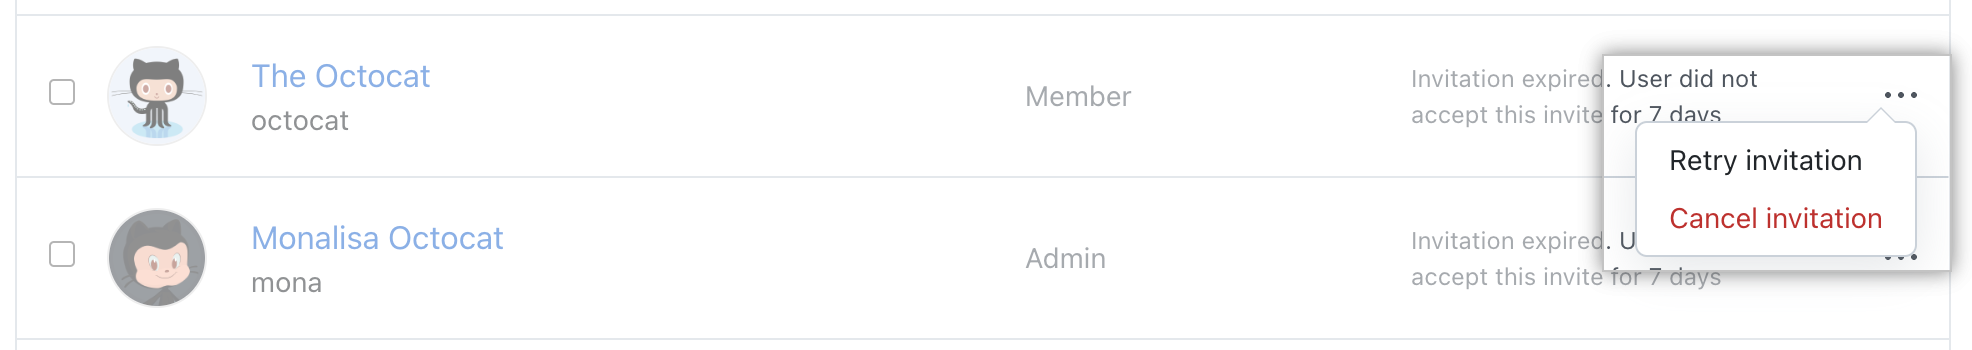
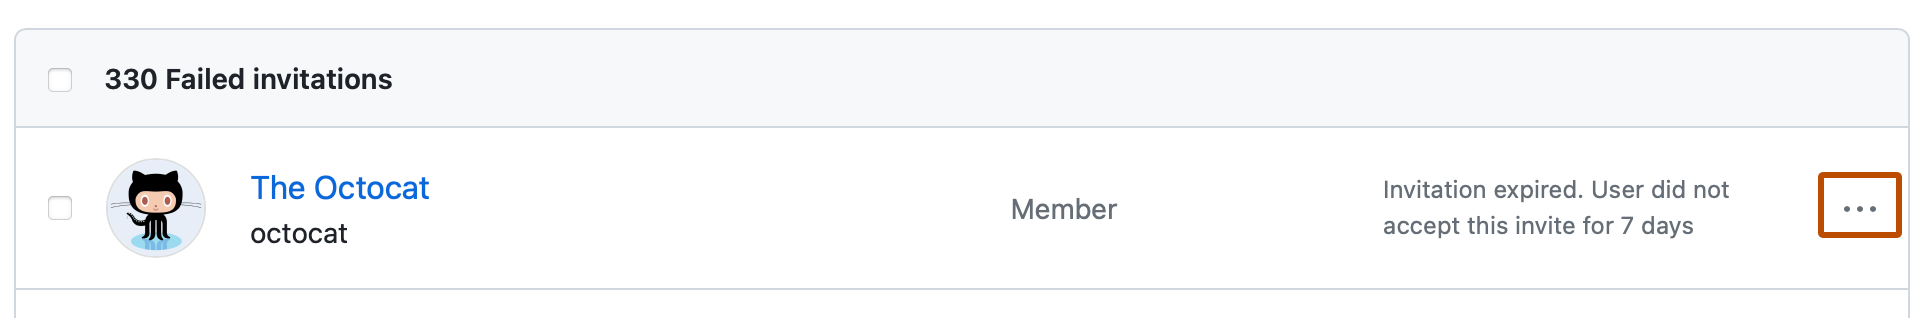
Make images accessible in the `images/help/organizations` directory (3/4) (#36113)

diff --git a/content/organizations/managing-peoples-access-to-your-organization-with-roles/about-custom-repository-roles.md b/content/organizations/managing-peoples-access-to-your-organization-with-roles/about-custom-repository-roles.md
@@ -17,7 +17,7 @@ To perform any actions on {% data variables.product.product_name %}, such as cre
 
 Within an organization, you can assign roles at the organization, team, and repository level. For more information about the different levels of roles, see "[AUTOTITLE](/organizations/managing-peoples-access-to-your-organization-with-roles/roles-in-an-organization)."
 
-You can have more granular control over the permissions you grant at the repository level by creating up to {% ifversion authz-increased-custom-repo-roles %}five {% else %}three {% endif %} custom repository roles. {% data reusables.organizations.about-custom-repo-roles %} For more information, see "[AUTOTITLE](/organizations/managing-peoples-access-to-your-organization-with-roles/managing-custom-repository-roles-for-an-organization).
+You can have more granular control over the permissions you grant at the repository level by creating up to {% ifversion authz-increased-custom-repo-roles %}five {% else %}three {% endif %} custom repository roles. {% data reusables.organizations.about-custom-repo-roles %} For more information, see "[AUTOTITLE](/organizations/managing-peoples-access-to-your-organization-with-roles/managing-custom-repository-roles-for-an-organization)."
 
 After you create a custom role, anyone with admin access to a repository can assign the role to an individual or team. For more information, see "[AUTOTITLE](/organizations/managing-user-access-to-your-organizations-repositories/managing-an-individuals-access-to-an-organization-repository)" and "[AUTOTITLE](/organizations/managing-user-access-to-your-organizations-repositories/managing-team-access-to-an-organization-repository)."
 
@@ -65,18 +65,18 @@ You can only choose an additional permission if it's not already included in the
 
 - Create a discussion category
 - Edit a discussion category
-- Delete a discussion category 
-- Mark or unmark discussion answers 
-- Hide or unhide discussion comments 
-- Convert issues to discussions 
+- Delete a discussion category
+- Mark or unmark discussion answers
+- Hide or unhide discussion comments
+- Convert issues to discussions
 
 For more information, see "[AUTOTITLE](/discussions)."
 {% endif %}
 
 ### Issue and Pull Requests
 
-- Assign or remove a user 
-- Add or remove a label 
+- Assign or remove a user
+- Add or remove a label
 
 ### Issue
 
@@ -94,17 +94,17 @@ For more information, see "[AUTOTITLE](/discussions)."
 ### Repository
 
 - Set milestones
-- Manage wiki settings 
+- Manage wiki settings
 - Manage project settings
-- Manage pull request merging settings 
+- Manage pull request merging settings
 - Manage {% data variables.product.prodname_pages %} settings (see "[AUTOTITLE](/pages/getting-started-with-github-pages/configuring-a-publishing-source-for-your-github-pages-site)")
-- Manage webhooks 
-- Manage deploy keys 
+- Manage webhooks
+- Manage deploy keys
 - Edit repository metadata
 {%- ifversion ghec %}
 - Set interaction limits
 {%- endif %}
-- Set the social preview 
+- Set the social preview
 - Push commits to protected branches (branch protection rules will still apply)
 - Create protected tags
 - Delete protected tags
@@ -117,13 +117,13 @@ For more information, see "[AUTOTITLE](/discussions)."
 
 ### Security
 
-- View {% data variables.product.prodname_code_scanning %} results 
+- View {% data variables.product.prodname_code_scanning %} results
 - Dismiss or reopen {% data variables.product.prodname_code_scanning %} results
-- Delete {% data variables.product.prodname_code_scanning %} results 
-- View {% data variables.product.prodname_dependabot_alerts %} 
-- Dismiss or reopen {% data variables.product.prodname_dependabot_alerts %} 
-- View {% data variables.product.prodname_secret_scanning %} results 
-- Dismiss or reopen {% data variables.product.prodname_secret_scanning %} results 
+- Delete {% data variables.product.prodname_code_scanning %} results
+- View {% data variables.product.prodname_dependabot_alerts %}
+- Dismiss or reopen {% data variables.product.prodname_dependabot_alerts %}
+- View {% data variables.product.prodname_secret_scanning %} results
+- Dismiss or reopen {% data variables.product.prodname_secret_scanning %} results
 
 ## Precedence for different levels of access
 

diff --git a/content/account-and-profile/setting-up-and-managing-your-personal-account-on-github/managing-your-personal-account/converting-a-user-into-an-organization.md b/content/account-and-profile/setting-up-and-managing-your-personal-account-on-github/managing-your-personal-account/converting-a-user-into-an-organization.md
@@ -48,27 +48,22 @@ You can also convert your personal account directly into an organization. Conver
  - Automatically invites collaborators to teams with permissions equivalent to what they had before
  {% ifversion fpt or ghec %}- For personal accounts on {% data variables.product.prodname_pro %}, automatically transitions billing to [the paid {% data variables.product.prodname_team %}](/billing/managing-billing-for-your-github-account/about-billing-for-github-accounts) without the need to re-enter payment information, adjust your billing cycle, or double pay at any time{% endif %}
 
+When you convert a personal account into an organization, we'll add collaborators on repositories that belong to the account to the new organization as outside collaborators. You can then invite outside collaborators to become members of your new organization if you wish. For more information, see "[AUTOTITLE](/organizations/managing-peoples-access-to-your-organization-with-roles/roles-in-an-organization#outside-collaborators)."
+
 1. Create a new personal account, which you'll use to sign into GitHub and access the organization and your repositories after you convert.
 2.  [Leave any organizations](/account-and-profile/setting-up-and-managing-your-personal-account-on-github/managing-your-membership-in-organizations/removing-yourself-from-an-organization) the personal account you're converting has joined.
 {% data reusables.user-settings.access_settings %}
 {% data reusables.user-settings.organizations %}
-5. Under "Transform account", click **Turn <username> into an organization**.
- 	![Organization conversion button](/assets/images/help/settings/convert-to-organization.png)
-6. In the Account Transformation Warning dialog box, review and confirm the conversion. Note that the information in this box is the same as the warning at the top of this article.
- 	![Conversion warning](/assets/images/help/organizations/organization-account-transformation-warning.png)
-7. On the "Transform your user into an organization" page, under "Choose an organization owner", choose either the secondary personal account you created in the previous section or another user you trust to manage the organization.
- 	![Add organization owner page](/assets/images/help/organizations/organization-add-owner.png)
-8. Choose your new organization's subscription and enter your billing information if prompted.
-9. Click **Create Organization**.
-10. Sign in to the new personal account you created in step one, then use the context switcher to access your new organization.
-
-{% tip %}
-
-**Tip**: When you convert a personal account into an organization, we'll add collaborators on repositories that belong to the account to the new organization as *outside collaborators*. You can then invite *outside collaborators* to become members of your new organization if you wish. For more information, see "[AUTOTITLE](/organizations/managing-peoples-access-to-your-organization-with-roles/roles-in-an-organization#outside-collaborators)."
-
-{% endtip %}
+1. In the "Transform account" section, click **Turn USERNAME into an organization**.
+1. Review the warning, then click **Turn USERNAME into an organization**.
+1. Under "Choose an organization owner", type either the secondary personal account you created in the previous section, or another user you trust, to manage the organization.
+1. Choose your new organization's subscription and enter your billing information, if prompted.
+1. Click **Create Organization**.
+1. Sign in to the new personal account you created earlier, then use the context switcher to access your new organization.
 
 ## Further reading
 - "[AUTOTITLE](/organizations/organizing-members-into-teams)"
-{% ifversion fpt or ghec %}- "[AUTOTITLE](/organizations/managing-membership-in-your-organization/inviting-users-to-join-your-organization)"{% endif %}
+{% ifversion fpt or ghec %}
+- "[AUTOTITLE](/organizations/managing-membership-in-your-organization/inviting-users-to-join-your-organization)"
+{% endif %}
 - "[AUTOTITLE](/account-and-profile/setting-up-and-managing-your-personal-account-on-github/managing-your-membership-in-organizations/accessing-an-organization)"

diff --git a/content/organizations/managing-peoples-access-to-your-organization-with-roles/managing-custom-repository-roles-for-an-organization.md b/content/organizations/managing-peoples-access-to-your-organization-with-roles/managing-custom-repository-roles-for-an-organization.md
@@ -22,23 +22,15 @@ redirect_from:
 
 To create a new repository role, you add permissions to an inherited role and give the custom role a name.
 
-{% data reusables.profile.access_profile %}
 {% data reusables.profile.access_org %}
-{% data reusables.organizations.org_settings %}
 {% data reusables.organizations.org-list %}
 {% data reusables.organizations.org-settings-repository-roles %}
-5. Click **Create a Role**.
-  ![Screenshot of "Create a Role" button](/assets/images/help/organizations/repository-role-create-role.png)
-4. Under "Name", type the name of your repository role.
-  ![Field to type a name for the repository role](/assets/images/help/organizations/repository-role-name.png)
-5. Under "Description", type a description of your repository role.
-  ![Field to type a description for the repository role](/assets/images/help/organizations/repository-role-description.png)
-6. Under "Choose a role to inherit", select the role you want to inherit.
-  ![Selecting repository role base role option](/assets/images/help/organizations/repository-role-base-role-option.png)
-7. Under "Add Permissions", use the drop-down menu to select the permissions you want your custom role to include.
-  ![Selecting permission levels from repository role drop-down](/assets/images/help/organizations/repository-role-drop-down.png)
-7. Click **Create role**.
-  ![Confirm creating a repository role](/assets/images/help/organizations/repository-role-creation-confirm.png)
+1. Scroll to the "Custom roles" section, then click **Create a Role**.
+1. Under "Name", type the name of your repository role.
+1. Under "Description", type a description of your repository role.
+1. Under "Choose a role to inherit", select the role you want to inherit.
+1. Under "Add Permissions", select the dropdown menu and click the permissions you want your custom role to include.
+1. Click **Create role**.
 
 ## Editing a repository role
 
@@ -47,10 +39,10 @@ To create a new repository role, you add permissions to an inherited role and gi
 {% data reusables.organizations.org_settings %}
 {% data reusables.organizations.org-list %}
 {% data reusables.organizations.org-settings-repository-roles %}
-3. To the right of the role you want to edit, click {% octicon "kebab-horizontal" aria-label="The horizontal kebab icon" %}, then click **Edit**.
-  ![Edit option in drop-down menu for repository roles](/assets/images/help/organizations/repository-role-edit-setting.png)
-4. Edit, then click **Update role**.
-  ![Edit fields and update repository roles](/assets/images/help/organizations/repository-role-update.png)
+1. To the right of the role you want to edit, click {% octicon "kebab-horizontal" aria-label="Show custom role actions" %}, then click **Edit**.
+
+  ![Screenshot of the list of custom roles for an organization. To the right of a role, a kebab icon is outlined in dark orange.](/assets/images/help/organizations/repository-role-edit-setting.png)
+1. Edit, then click **Update role**.
 
 ## Deleting a repository role
 
@@ -61,7 +53,7 @@ If you delete an existing repository role, all pending invitations, teams, and u
 {% data reusables.organizations.org_settings %}
 {% data reusables.organizations.org-list %}
 {% data reusables.organizations.org-settings-repository-roles %}
-3. To the right of the role you want to delete, click {% octicon "kebab-horizontal" aria-label="The horizontal kebab icon" %}, then click **Delete**.
-  ![Edit option in drop-down menu for repository roles](/assets/images/help/organizations/repository-role-delete-setting.png)
-4. Review changes for the role you want to remove, then click **Delete role**.
-  ![Confirm deleting a repository role](/assets/images/help/organizations/repository-role-delete-confirm.png)
+1. To the right of the role you want to delete, click {% octicon "kebab-horizontal" aria-label="Show custom role actions" %}, then click **Delete**.
+
+   ![Screenshot of the list of custom roles for an organization. To the right of a role, a kebab icon is outlined in dark orange.](/assets/images/help/organizations/repository-role-edit-setting.png)
+1. Review changes for the role you want to remove, then click **Delete role**.

diff --git a/content/organizations/collaborating-with-groups-in-organizations/customizing-your-organizations-profile.md b/content/organizations/collaborating-with-groups-in-organizations/customizing-your-organizations-profile.md
@@ -16,15 +16,11 @@ shortTitle: Customize organization profile
 {% ifversion org-profile-pin-private %}
 You can customize your organization's Overview page to show a README and pinned repositories dedicated to public users or members of the organization.
 
-![Image of a public organization profile page](/assets/images/help/organizations/public_profile.png)
-
 Members of your organization who are signed into {% data variables.product.prodname_dotcom %}, can select a `member` or `public` view of the README and pinned repositories when they visit your organization's profile page.
 
-![Image of a public organization profile page view context switcher](/assets/images/help/organizations/profile_view_switcher_public.png)
+![Image of an organization's profile page. In the right sidebar, a dropdown menu, labeled "View as: Public", is outlined in dark orange.](/assets/images/help/organizations/profile_view_switcher_public.png)
 
 The view defaults to `member` if either a members-only README or members-only pinned repositories are present, and `public` otherwise.
-
-![Image of a members only organization profile page](/assets/images/help/organizations/member_only_profile.png)
 
 Users who are not members of your organization will be shown a `public` view.
 
@@ -49,21 +45,21 @@ You can format text and include emoji, images, and GIFs in your organization pro
 
 ## Adding a public organization profile README
 
-1. If your organization does not already have a public `.github` repository, create a public `.github` repository.
-2. In your organization's `.github` repository, create a `README.md` file in the `profile` folder.
-3. Commit the changes to the `README.md` file. The content of the `README.md` will appear on your organization's public profile.
+The content of public `README.md` will appear on your organization's public profile.
 
-   ![Image of an organization's public README](/assets/images/help/organizations/org_public_readme.png)
+1. If your organization does not already have a public `.github` repository, create a public `.github` repository.
+1. In your organization's `.github` repository, create a `README.md` file in the `profile` folder.
+1. Commit the changes to the `README.md` file.
 
 {% ifversion org-profile-pin-private %}
 
 ## Adding a member-only organization profile README
 
-1. If your organization does not already have a `.github-private` repository, create a private repository called `.github-private`.
-2. In your organization's `.github-private` repository, create a `README.md` file in the `profile` folder.
-3. Commit the changes to the `README.md` file. The content of the `README.md` will be displayed in the member view of your organization's profile.
+The content of a member-only `README.md` will be displayed in the member view of your organization's profile.
 
-   ![Image of an organization's member-only README](/assets/images/help/organizations/org_member_readme.png)
+1. If your organization does not already have a `.github-private` repository, create a private repository called `.github-private`.
+1. In your organization's `.github-private` repository, create a `README.md` file in the `profile` folder.
+1. Commit the changes to the `README.md` file.
 
 ## Pinning repositories to your organization's profile
 

diff --git a/content/organizations/managing-access-to-your-organizations-project-boards/managing-team-access-to-an-organization-project-board.md b/content/organizations/managing-access-to-your-organizations-project-boards/managing-team-access-to-an-organization-project-board.md
@@ -43,10 +43,10 @@ You can give an entire team the same permission level to a {% data variables.pro
 {% data reusables.project-management.select-project %}
 {% data reusables.project-management.click-menu %}
 {% data reusables.project-management.access-collaboration-settings %}
-8. In the left sidebar, click **Teams**.
-9. To add a team, click **Add a team: Select team**. Then, choose a team from the drop-down menu or search for the team you'd like to add.
+1. In the left sidebar, click **Teams**.
+1. To add a team, click **Add a team: Select team**. Then, choose a team from the dropdown menu or search for the team you'd like to add.
  ![Add a team drop-down menu with list of teams in organization](/assets/images/help/projects/add-a-team.png)
-10. Next to the team name, use the drop-down menu to select the desired permission level: **Read**, **Write**, or **Admin**.
+1. Next to the team name, use the dropdown menu to select the desired permission level: **Read**, **Write**, or **Admin**.
  ![Team permissions drop-down menu with read, write, and admin options](/assets/images/help/projects/org-project-team-choose-permissions.png)
 
 ## Configuring a team's access to a {% data variables.projects.projects_v1_board %}
@@ -56,10 +56,9 @@ If a team's access to a {% data variables.projects.projects_v1_board %} is inher
 {% data reusables.profile.access_org %}
 {% data reusables.user-settings.access_org %}
 {% data reusables.organizations.specific_team %}
-4. Above the team's conversation, click {% octicon "project" aria-label="The Projects icon" %} **Projects**.
+1. Above the team's conversation, click {% octicon "project" aria-label="The Projects icon" %} **Projects**.
   ![The team repositories tab](/assets/images/help/organizations/team-project-board-button.png)
-5. To change permissions levels, to the right of the {% data variables.projects.projects_v1_board %} you want to update, use the drop-down. To remove a {% data variables.projects.projects_v1_board %}, click **{% octicon "trash" aria-label="The trash icon" %}**.
-  ![Remove a project board from your team trash button](/assets/images/help/organizations/trash-button.png)
+1. To change permissions levels, to the right of the {% data variables.projects.projects_v1_board %} you want to update, use the permission level dropdown menu.
 
 {% ifversion projects-v2-add-to-team %}
 

diff --git a/data/reusables/organizations/retrying-or-deleting-expired-invitations.md b/data/reusables/organizations/retrying-or-deleting-expired-invitations.md
@@ -1,19 +1,6 @@
-1. To view all expired and failed invitations, click **Failed invitations**, under "Organization permissions" on the left.
+1. In the "Organization permissions" sidebar, click **Failed invitations**.
+1. Next to an invitation, select the {% octicon "kebab-horizontal" aria-label="Member settings" %} dropdown menu, then click **Retry invitation** or **Cancel invitation**.
 
-   ![Screenshot of the people tab with the failed invitations option emphasized](/assets/images/help/organizations/organization-failed-invitations.png)
+   ![Screenshot of the list of failed invitations for an organization. To the right of the first entry, a kebab icon is outlined in dark orange.](/assets/images/help/organizations/retry-or-cancel-invitation.png)
 
-2. To retry or cancel a single invitation, click {% octicon "kebab-horizontal" aria-label="The horizontal kebab icon" %} next to the expiration warning, and select **Retry invitation** or **Cancel invitation**.
-
-   ![Screenshot of the failed invitations view with the retry and cancel invitation options highlighted](/assets/images/help/organizations/retry-or-cancel-invitation.png)
-
-3. To confirm, click **Retry invitation** or **Cancel invitation** in the pop-up.
-
-   ![Screenshot of the retry invitation pop-up](/assets/images/help/organizations/retry-invitation-pop-up.png)
-
-4. Optionally, to retry or cancel multiple invitations at the same time, select the checkboxes next to the invitations. Click the dropdown at the top of the list and select **Retry invitations** or **Cancel invitations**.
-
-   ![Screenshot of the dropdown to edit multiple invitations](/assets/images/help/organizations/organization-invitations-multiple-selection.png)
-
-5. Optionally, to retry or cancel all invitations on the page, check the box at the top of the list, and click **Retry invitations** or **Cancel invitations**.
-
-   ![Screenshot of the dropdown to bulk edit all invitations on the page](/assets/images/help/organizations/organization-invitations-bulk-select.png)
+1. To confirm, click **Retry invitation** or **Cancel invitation**.

diff --git a/content/issues/planning-and-tracking-with-projects/managing-your-project/adding-your-project-to-a-team.md b/content/issues/planning-and-tracking-with-projects/managing-your-project/adding-your-project-to-a-team.md
@@ -22,36 +22,30 @@ Teams are granted read permissions on any project they are added to. This permis
 {% data reusables.profile.access_org %}
 {% data reusables.user-settings.access_org %}
 {% data reusables.organizations.specific_team %}
-1. Click {% octicon "project" aria-label="The Projects icon" %} **Projects**.
-   
-   ![Screenshot showing the team projects tab.](/assets/images/help/organizations/team-project-board-button.png)
-   
-1. Click **Add project**.
-   
-   ![Screenshot showing the "Add project" button.](/assets/images/help/organizations/team-project-add-project.png)
-   
-1. Start typing the name of the project you want to add and then select the project in the list of matches.  
-   
+1. Click {% octicon "project" aria-hidden="true" %} **Projects**.
+
+   ![Screenshot of the main page for a team. In the horizontal navigation bar, the "Projects" tab is outlined in dark orange.](/assets/images/help/organizations/team-project-board-button.png)
+
+1. Click **Link a project**.
+1. In the search field, start typing the name of the project you want to add and then select the project in the list of matches.
+
    {% note %}
-   
+
    **Note:** If this change will result in increased project permissions for the team's members, {% data variables.product.product_name %} will prompt you to confirm your choice.
-   
+
    {% endnote %}
-   
-   ![Screenshot showing the "Add project" form.](/assets/images/help/organizations/team-project-search.png)
-   
 
 ## Removing a project from a team
 
 {% data reusables.projects.project-settings %}
 1. Click **Manage access**.
-   
+
    ![Screenshot showing the "Manage access" item](/assets/images/help/projects-v2/manage-access.png)
-   
+
 1. Next to the team that you want to remove from the project, click **Remove**.
-   
+
    ![Screenshot showing removing a collaborator](/assets/images/help/projects-v2/access-remove-member.png)
-   
+
 
 {% ifversion projects-v1 %}
 

diff --git a/content/organizations/managing-programmatic-access-to-your-organization/limiting-oauth-app-and-github-app-access-requests.md b/content/organizations/managing-programmatic-access-to-your-organization/limiting-oauth-app-and-github-app-access-requests.md
@@ -17,7 +17,7 @@ redirect_from:
 
 When integration access requests are enabled, outside collaborators can request organization access for {% data variables.product.prodname_github_apps %} and {% data variables.product.prodname_oauth_apps %} which have not yet been approved by your organization. If you disable integration access requests, only organization members will be able to request organization access for unapproved {% data variables.product.prodname_github_apps %} and {% data variables.product.prodname_oauth_apps %}. Outside collaborators will still be able to consent to pre-approved {% data variables.product.prodname_github_apps %} and {% data variables.product.prodname_oauth_apps %} accessing the same resources the requesting outside collaborator has access to.
 
-By default, integration access requests are enabled. If your organization has a large number of outside collaborators, you may want to disable integration access requests, to reduce the number of requests you have to review. 
+By default, integration access requests are enabled. If your organization has a large number of outside collaborators, you may want to disable integration access requests, to reduce the number of requests you have to review.
 
 ## Enabling or disabling integration access requests
 
@@ -25,4 +25,3 @@ By default, integration access requests are enabled. If your organization has a 
 {% data reusables.profile.org_settings %}
 {% data reusables.profile.org_member_privileges %}
 1. Under "Integration access requests" select or deselect **Allow integration requests from outside collaborators** and click **Save**.
-    ![Screenshot of integration access requests setting](/assets/images/help/organizations/integration-access-requests.png)

diff --git a/content/organizations/managing-user-access-to-your-organizations-repositories/converting-an-outside-collaborator-to-an-organization-member.md b/content/organizations/managing-user-access-to-your-organizations-repositories/converting-an-outside-collaborator-to-an-organization-member.md
@@ -28,11 +28,11 @@ If your organization [requires members to use two-factor authentication](/organi
 {% data reusables.organizations.people %}
 {% data reusables.organizations.people_tab_outside_collaborators %}
 {% ifversion fpt or ghec %}
-5. To the right of the name of the outside collaborator you want to become a member, select the {% octicon "kebab-horizontal" aria-label="Collaborator settings" %} dropdown menu and click **Invite to organization**. 
+1. To the right of the name of the outside collaborator you want to become a member, select the {% octicon "kebab-horizontal" aria-label="Collaborator settings" %} dropdown menu and click **Invite to organization**.
 
-   ![Invite outside collaborators to organization](/assets/images/help/organizations/invite_outside_collaborator_to_organization.png)
+   ![Screenshot of the outside collaborator list for an organization. To the right of a collaborator, a kebab icon is outlined in dark orange.](/assets/images/help/organizations/manage-outside-collaborator.png)
 {% else %}
-5. To the right of the name of the outside collaborator you want to become a member, click **Invite to organization**.![Invite outside collaborators to organization](/assets/images/enterprise/orgs-and-teams/invite_outside_collabs_to_org.png)
+1. To the right of the name of the outside collaborator you want to become a member, click **Invite to organization**.
 {% endif %}
 {% data reusables.organizations.choose-to-restore-privileges %}
 {% data reusables.organizations.choose-user-role-send-invitation %}

diff --git a/content/organizations/keeping-your-organization-secure/managing-two-factor-authentication-for-your-organization/viewing-whether-users-in-your-organization-have-2fa-enabled.md b/content/organizations/keeping-your-organization-secure/managing-two-factor-authentication-for-your-organization/viewing-whether-users-in-your-organization-have-2fa-enabled.md
@@ -25,10 +25,9 @@ shortTitle: View 2FA usage
 {% data reusables.user-settings.access_org %}
 {% data reusables.organizations.people %}
 1. To view organization members, including organization owners, who have enabled or disabled two-factor authentication, on the right, select **2FA**, then click **Enabled** or **Disabled**.
- 
+
     ![Screenshot of the list of organization members. A dropdown menu, labeled "2FA", is expanded and outlined in orange.](/assets/images/help/2fa/filter-org-members-by-2fa.png)
-1. To view outside collaborators in your organization, under the "People" tab, click **Outside collaborators**.
-![select-outside-collaborators](/assets/images/help/organizations/select-outside-collaborators.png)
+1. To view outside collaborators in your organization, in the "Organization permissions" sidebar, click **Outside collaborators**.
 1. To view which outside collaborators have enabled or disabled two-factor authentication, above the list of outside collaborators, select the **2FA** dropdown menu, then click **Enabled** or **Disabled**.
 
    ![Screenshot of the list of outside collaborators. A dropdown menu, labeled "2FA", is expanded and outlined in orange.](/assets/images/help/2fa/filter-outside-collaborators-by-2fa.png)

diff --git a/data/reusables/organizations/invite_to_team.md b/data/reusables/organizations/invite_to_team.md
@@ -1,7 +1,7 @@
 {% ifversion fpt or ghec %}
-1. Add an organization member to the team or invite a non-member to join a team:
+1. Add an organization member to the team or invite a non-member to join a team.
    - If the person you want to add is already a member of your organization, type their username and click **Enter**. The user will immediately be added to the team.
-   - If the person you want to add is not member of your organization, type their username or email address and click **Enter**. The user will receive an email invitation to join your organization and will be added to the team once they accept the invitation.{% else %}
+   - If the person you want to add is not member of your organization, type their username or email address and click **Enter**. The user will receive an email invitation to join your organization and will be added to the team once they accept the invitation.
+{% else %}
 1. Type the username of the person you want to add and click **Enter**. The user will immediately be added to the team.
-![Add team member popup](/assets/images/help/organizations/Organization-add-team.png)
 {% endif %}

diff --git a/content/account-and-profile/setting-up-and-managing-your-personal-account-on-github/managing-your-membership-in-organizations/publicizing-or-hiding-organization-membership.md b/content/account-and-profile/setting-up-and-managing-your-personal-account-on-github/managing-your-membership-in-organizations/publicizing-or-hiding-organization-membership.md
@@ -22,9 +22,10 @@ shortTitle: Show or hide membership
 {% data reusables.profile.access_org %}
 {% data reusables.user-settings.access_org %}
 {% data reusables.organizations.people %}
-4. Locate your username in the list of members. If the list is large, you can search for your username in the search box.
-![Organization member search box](/assets/images/help/organizations/member-search-box.png)
-5. In the menu to the right of your username, choose a new visibility option:
+1. Locate your username in the list of members. If the list is large, you can search for your username in the search box.
+1. Next to your username, select the visibility dropdown menu, then click a new visibility.
+
     - To publicize your membership, choose **Public**.
     - To hide your membership, choose **Private**.
-  ![Organization member visibility link](/assets/images/help/organizations/member-visibility-link.png)
+
+   ![Screenshot of an entry in the list of organization members. To the right of the username, a dropdown menu, labeled "Private", is outlined in dark orange.](/assets/images/help/organizations/member-visibility-link.png)
